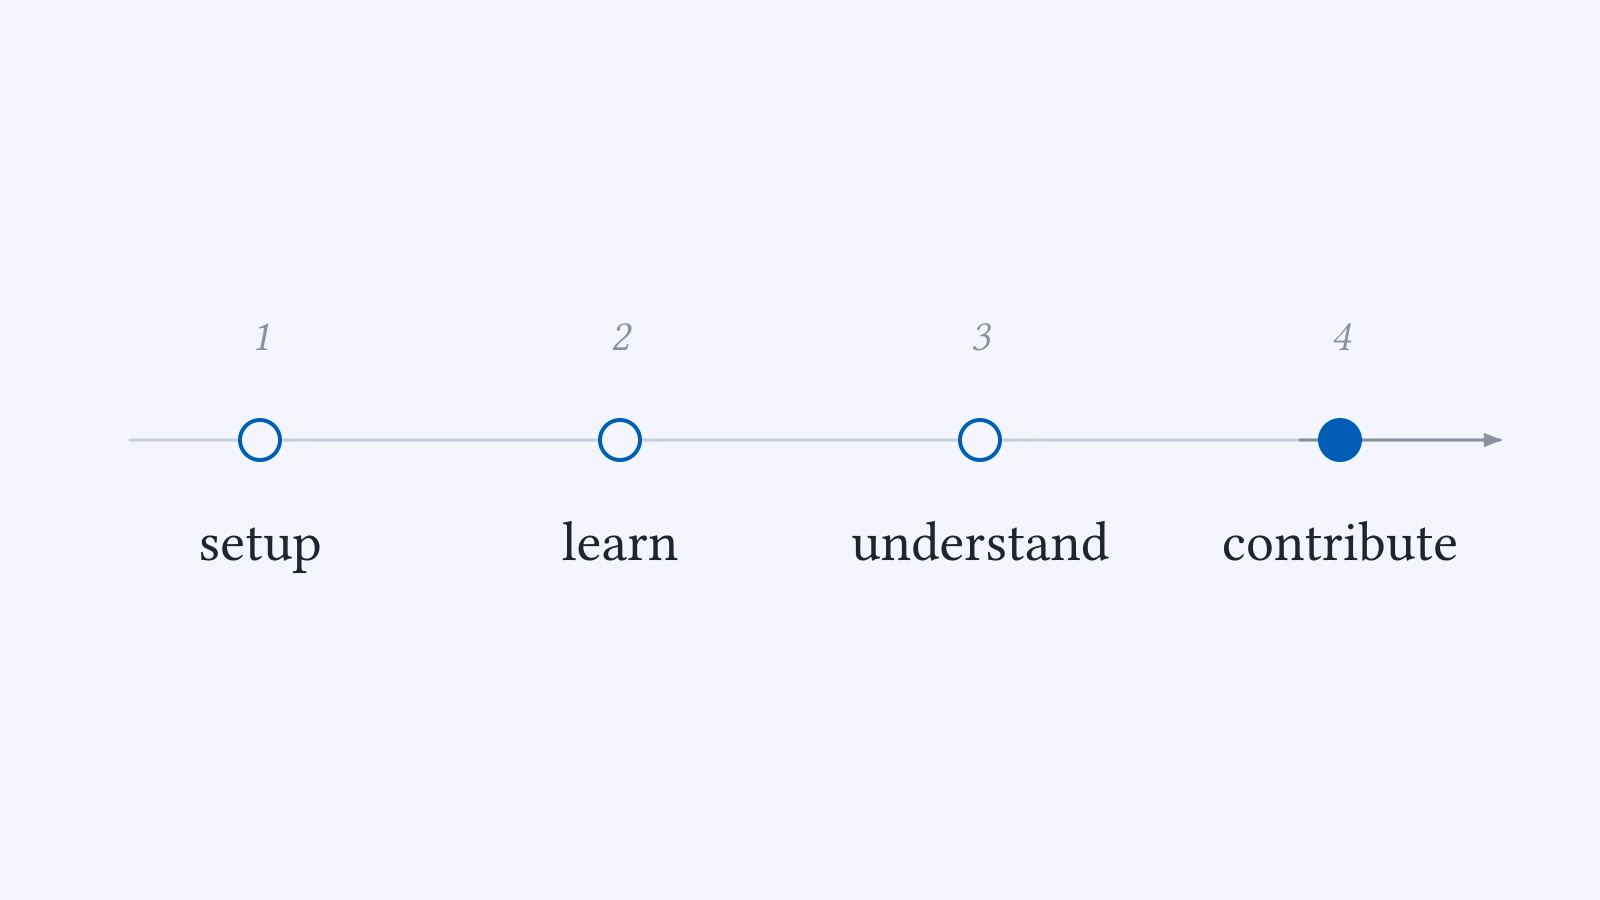
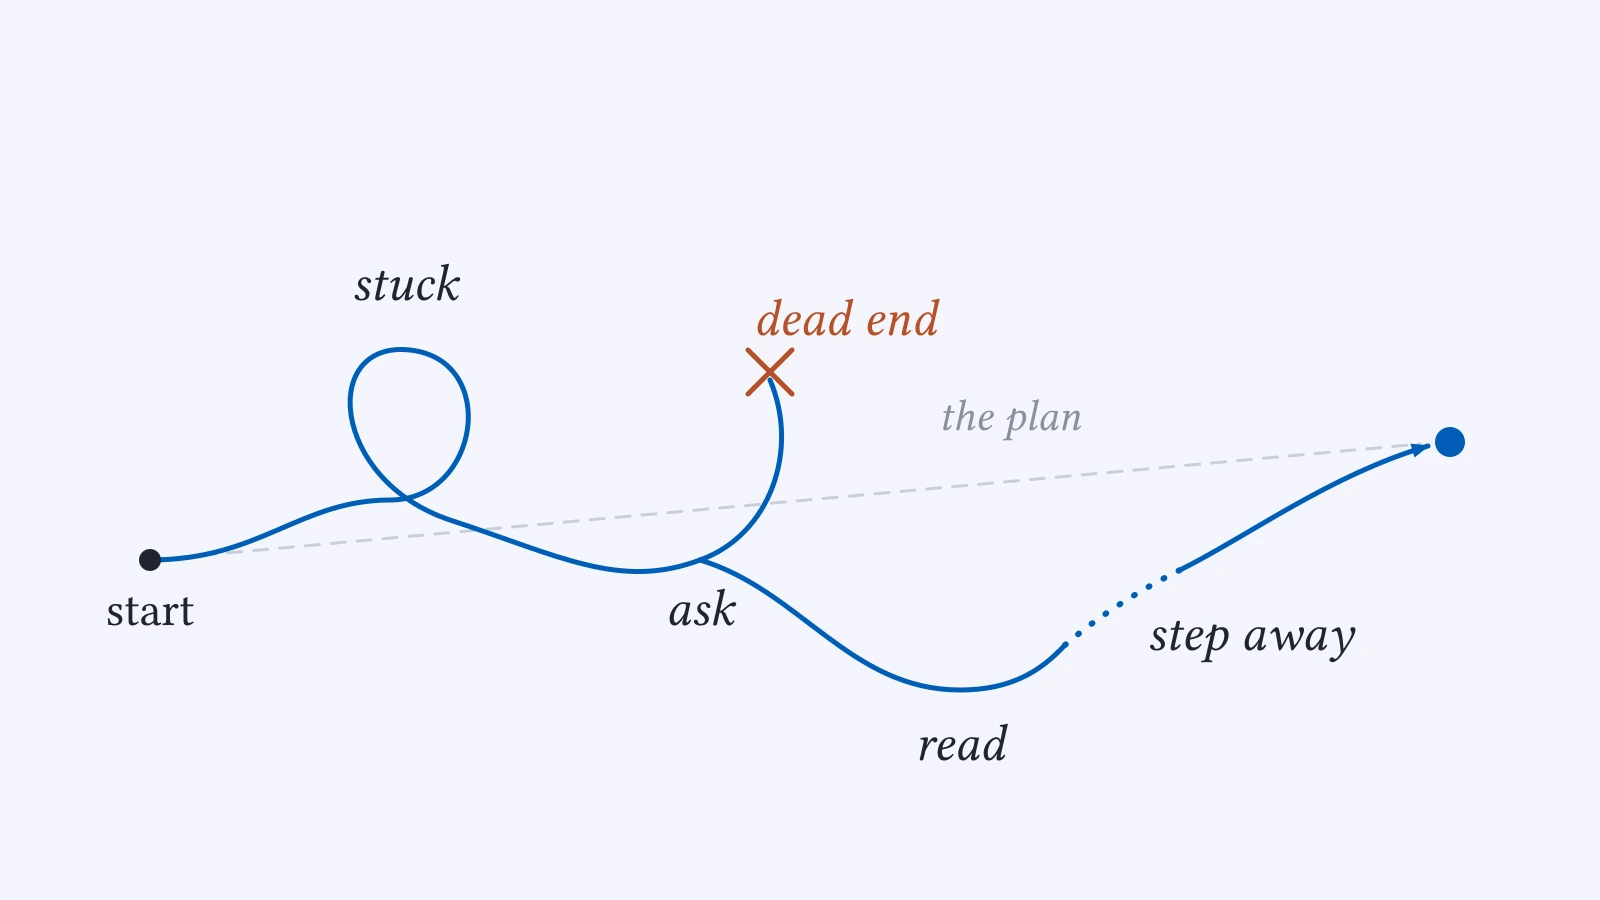
Position articles: title above figure, tighter figures, new Guide figure
Remove the group-photo banners from the PhD and Project pages so all four
position articles open with the title and then the figure. Crop each
figure's viewBox to its content and drop the theme's extra figure margin,
which left a large gap under the title. Redraw the Guide figure as a
winding path to the same endpoint as the plan, with a visible pause, and
add a line to the Guide text that some problems need weeks or months.

diff --git a/webpage/assets/scss/custom.scss b/webpage/assets/scss/custom.scss
@@ -1244,12 +1244,14 @@ body.dark .mv-hero-img-dark  { display: block; }
 .mv-card-fig {
   --fig-bg: var(--fig-media);              /* media area is its own surface, apart from the card's surface-low text area */
   background: var(--fig-bg);
+  display: flex;                           /* figures are cropped to their content; centre them in the 16:9 area */
+  align-items: center;
 
   svg { display: block; width: 100%; height: auto; }
 }
 
-.mv-fig-page {
-  margin: 0 0 1.5rem;
+.article-style .mv-fig-page {
+  margin: 0 0 1.5rem;             /* the theme's figure margin-top (42px) left a gap under the title */
   --fig-bg: var(--m-surface-low);
   border-radius: var(--m-radius);
   overflow: hidden;

diff --git a/webpage/content/position/start/index.md b/webpage/content/position/start/index.md
@@ -18,7 +18,7 @@ Welcome to MAVENs. This page is for you if you are about to start a project or P
 
 You will spend a lot of time not knowing what to do next. This is not a sign that something is wrong — it is what research feels like from the inside, for everyone, almost all the time. Calculations will fail. Code will give nonsense. Things you were sure of will turn out to be wrong. None of this means you are not cut out for it.
 
-What helps when you are stuck: read more widely than your specific topic, talk to senior students before bringing it to me, write down what you have tried and where exactly it broke, and let a problem sit overnight before deciding it is hopeless. Most things that feel like dead ends in the evening look different the next morning.
+What helps when you are stuck: read more widely than your specific topic, talk to senior students before bringing it to me, write down what you have tried and where exactly it broke, and let a problem sit overnight before deciding it is hopeless. Most things that feel like dead ends in the evening look different the next morning. Some need longer — weeks, even months, while you work on something else — and that is normal too.
 
 Richard Hamming's lecture [*You and Your Research*](http://www.youtube.com/watch?v=a1zDuOPkMSw) is worth watching early on, and again every couple of years. It is about taste in problems and the habits of people who do good work over long careers.
 

diff --git a/webpage/content/position/phd/index.md b/webpage/content/position/phd/index.md
@@ -11,8 +11,6 @@ show_date: false
 image:
   focal_point: "Center"
   preview_only: true
-banner:
-  image: group.webp
 ---
 {{< inline-svg "figure.svg" >}}
 

diff --git a/webpage/content/position/project/index.md b/webpage/content/position/project/index.md
@@ -11,8 +11,6 @@ show_date: false
 image:
   focal_point: "Center"
   preview_only: true
-banner:
-  image: group.webp
 ---
 {{< inline-svg "figure.svg" >}}
 
